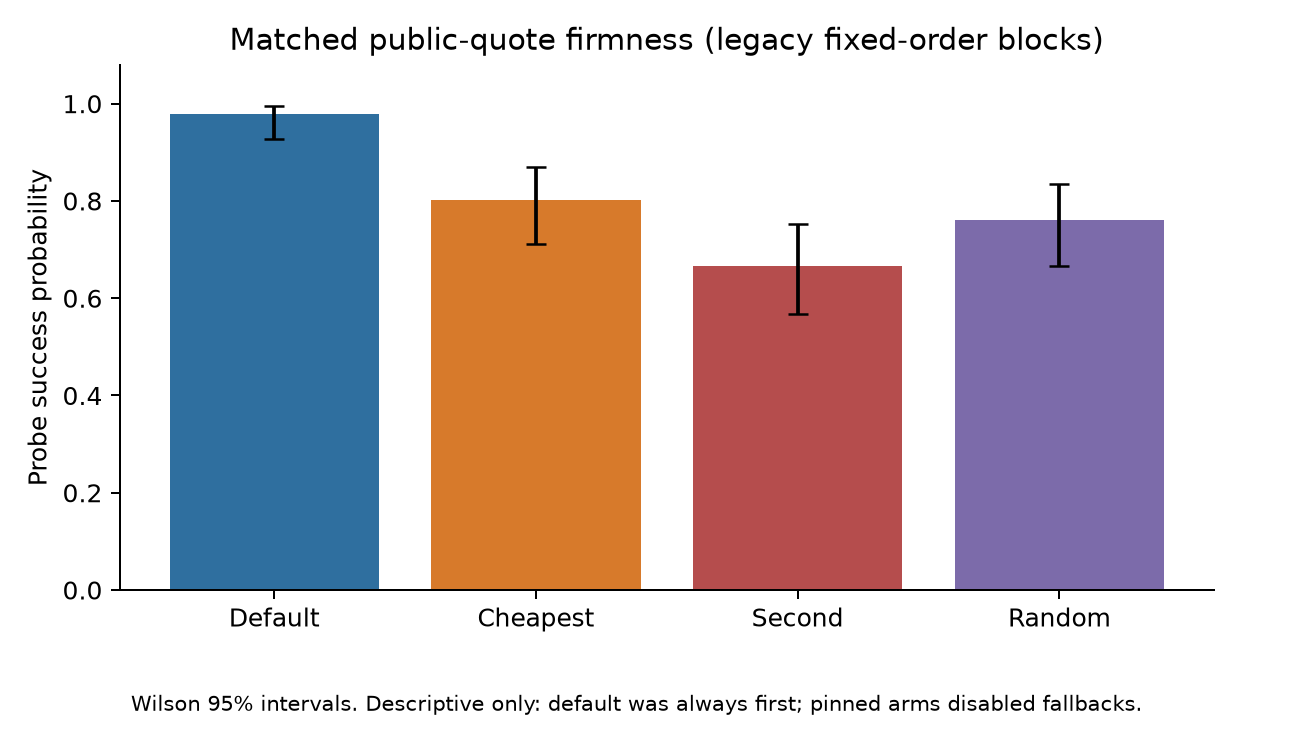
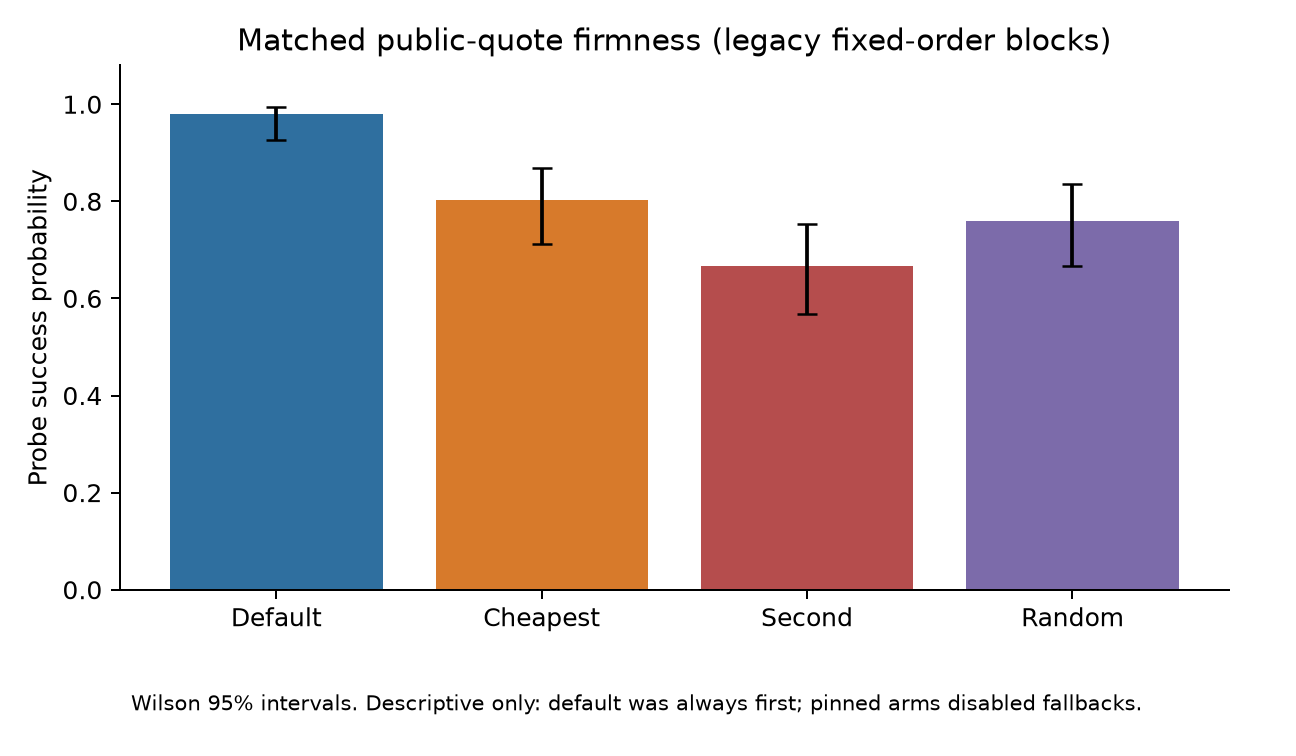
verify randomized probe assignments losslessly

diff --git a/tests/test_h80_matched_quote_firmness.py b/tests/test_h80_matched_quote_firmness.py
@@ -1,4 +1,5 @@
 import json
+import random
 
 import pandas as pd
 
@@ -15,6 +16,7 @@ def _row(block, policy, minute, success, *, explicit=False, position=None):
     if explicit:
         metadata = {
             "block_id": block,
+            "block_policy_count": 4,
             "policy_order": position,
             "randomized_order": True,
             "assignment_probability_first": 0.25,
@@ -88,6 +90,27 @@ def test_incomplete_explicit_block_retains_auditable_first_position_itt():
     assert len(blocks) == 1
     assert not bool(blocks["block_complete"].iloc[0])
     assert bool(blocks["assignment_verified"].iloc[0])
+
+
+def test_assignment_replay_preserves_unsigned_64_bit_seed_bits():
+    seed = 16_232_024_600_027_900_149
+    n_quoted = 17
+    rng = random.Random(seed)
+    random_rank = rng.choice(range(2, n_quoted))
+    order = list(POLICIES)
+    rng.shuffle(order)
+    rows = []
+    for position, policy in enumerate(order):
+        row = _row("large-seed", policy, position, True, explicit=True, position=position)
+        metadata = json.loads(row["metadata_json"])
+        metadata["block_seed"] = seed
+        metadata["n_quoted"] = n_quoted
+        if policy == "pinned_random":
+            metadata["quoted_rank"] = random_rank
+        row["metadata_json"] = json.dumps(metadata)
+        rows.append(row)
+    blocks = construct_probe_blocks(pd.DataFrame(rows))
+    assert blocks["assignment_verified"].all()
 
 
 def test_paired_contrast_recovers_success_gap_and_break_even_value():

diff --git a/src/orcap/analysis/h80_matched_quote_firmness.py b/src/orcap/analysis/h80_matched_quote_firmness.py
@@ -81,7 +81,14 @@ def prepare_attempts(frame: pd.DataFrame) -> pd.DataFrame:
         "quoted_rank",
         "n_quoted",
     ):
-        out[key] = meta.map(lambda item, k=key: item.get(k))
+        values = [item.get(key) for item in meta]
+        # Seeds are unsigned 64-bit integers.  An ordinary pandas column with
+        # legacy nulls would coerce them to float and silently lose bits.
+        out[key] = pd.Series(
+            values,
+            index=out.index,
+            dtype="object" if key == "block_seed" else None,
+        )
     out["success"] = out["outcome"].astype(str).eq("succeeded")
     out["rejected_429"] = (~out["success"]) & out.get(
         "retry_reason", pd.Series("", index=out.index)
@@ -124,7 +131,10 @@ def _verify_assignment(block: pd.DataFrame) -> bool:
     try:
         seed = int(block["block_seed"].iloc[0])
         n_quoted = int(block["n_quoted"].dropna().iloc[0])
+        policy_count = int(block["block_policy_count"].dropna().iloc[0])
     except (IndexError, TypeError, ValueError):
+        return False
+    if policy_count != len(POLICIES) or n_quoted < 3:
         return False
     rng = random.Random(seed)
     expected_random_rank = rng.choice(range(2, n_quoted))
@@ -300,6 +310,7 @@ def paired_contrasts(blocks: pd.DataFrame, *, bootstrap: int = 5000) -> pd.DataF
                 "discordant_pinned_only_success": adverse,
                 "mcnemar_exact_p": p_exact,
                 "hour_cluster_signflip_p": cluster_p,
+                "n_observed_spend_pairs": int(len(spend_pair)),
                 "observed_spend_difference_usd": spend_diff,
                 "break_even_value_per_success_usd": float(threshold),
             }